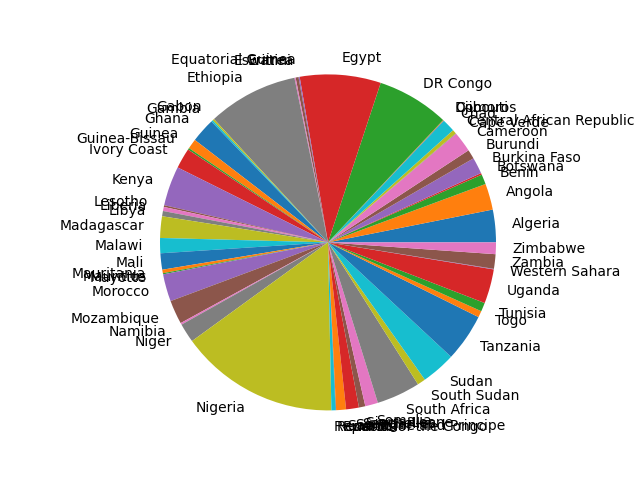
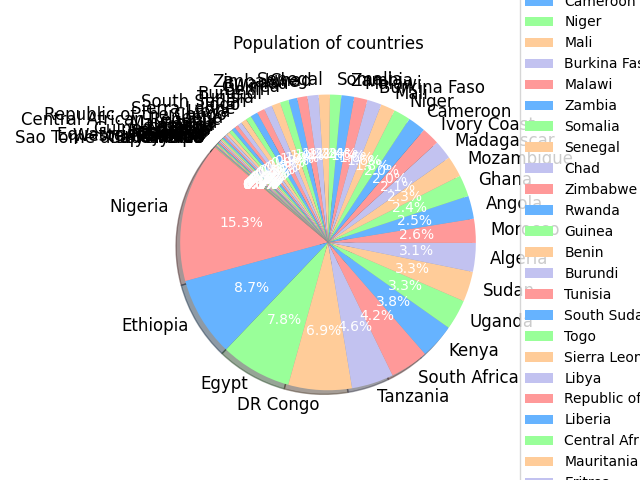
Improve Charts

diff --git a/app/charts.py b/app/charts.py
@@ -1,23 +1,63 @@
 import matplotlib.pyplot as plt
 
-
 def generate_bar_chart(name, labels, values):
-    fig, ax = plt.subplots()
-    ax.bar(labels, values)
-    plt.savefig(f'./imgs/{name}.png')
-    plt.close()
+    """
+    Generates a bar chart with the given labels and values.
+    Saves the chart as an image file.
 
+    Args:
+        name (str): Name to be used in the title and filename of the chart.
+        labels (list): List of labels for the x-axis.
+        values (list): List of values for the y-axis.
+    """
+    fig, ax = plt.subplots()
+    ax.bar(labels, values, color='darkblue', edgecolor='black')  # Create bars with dark blue color and black edges
+    ax.grid(True, which='both', linestyle='--', linewidth=0.5)  # Add grid lines
+    ax.set_xlabel('Year')  # Set x-axis label
+    ax.set_ylabel('Population')  # Set y-axis label
+    ax.set_title(f'Population of {name}')  # Set chart title
+    plt.savefig(f'./imgs/{name}.png')  # Save the chart as an image file
+    plt.close()  # Close the plot to free up memory
 
 def generate_pie_chart(labels, values):
-    fig, ax = plt.subplots()
-    ax.pie(values, labels=labels)
-    ax.axis('equal')
-    plt.savefig('chart_pie.png')
-    plt.close()
+    """
+    Generates a pie chart with the given labels and values.
+    Saves the chart as an image file.
 
+    Args:
+        labels (list): List of labels for the pie chart.
+        values (list): List of values for the pie chart.
+    """
+    # Combine labels and values, and sort by values in descending order
+    combined = sorted(zip(values, labels), reverse=True)
+    sorted_sizes, sorted_labels = zip(*combined)
+
+    # Define explode to highlight a specific sector (optional)
+    explode = [0.1 if label == 'B' else 0 for label in sorted_labels]
+
+    # Create the pie chart
+    fig, ax = plt.subplots()
+    wedges, texts, autotexts = ax.pie(sorted_sizes, explode=explode, labels=sorted_labels, autopct='%1.1f%%',
+                                      shadow=True, startangle=140, colors=['#ff9999', '#66b3ff', '#99ff99', '#ffcc99', '#c2c2f0'])
+
+    # Customize labels
+    for text in texts:
+        text.set_fontsize(12)  # Set font size for labels
+    for autotext in autotexts:
+        autotext.set_color('white')  # Set color for percentage text
+        autotext.set_fontsize(10)  # Set font size for percentage text
+
+    # Add legend
+    ax.legend(wedges, sorted_labels, title="Categories", loc="center left", bbox_to_anchor=(1, 0, 0.5, 1))
+
+    # Set chart title
+    ax.set_title('Population of countries')
+    plt.savefig('chart_pie.png')  # Save the pie chart as an image file
+    plt.close()  # Close the plot to free up memory
 
 if __name__ == '__main__':
     labels = ['a', 'b', 'c']
     values = [10, 40, 800]
-    # generate_bar_chart(labels, values)
+    # Uncomment the line below to generate a bar chart
+    # generate_bar_chart('Sample', labels, values)
     generate_pie_chart(labels, values)
